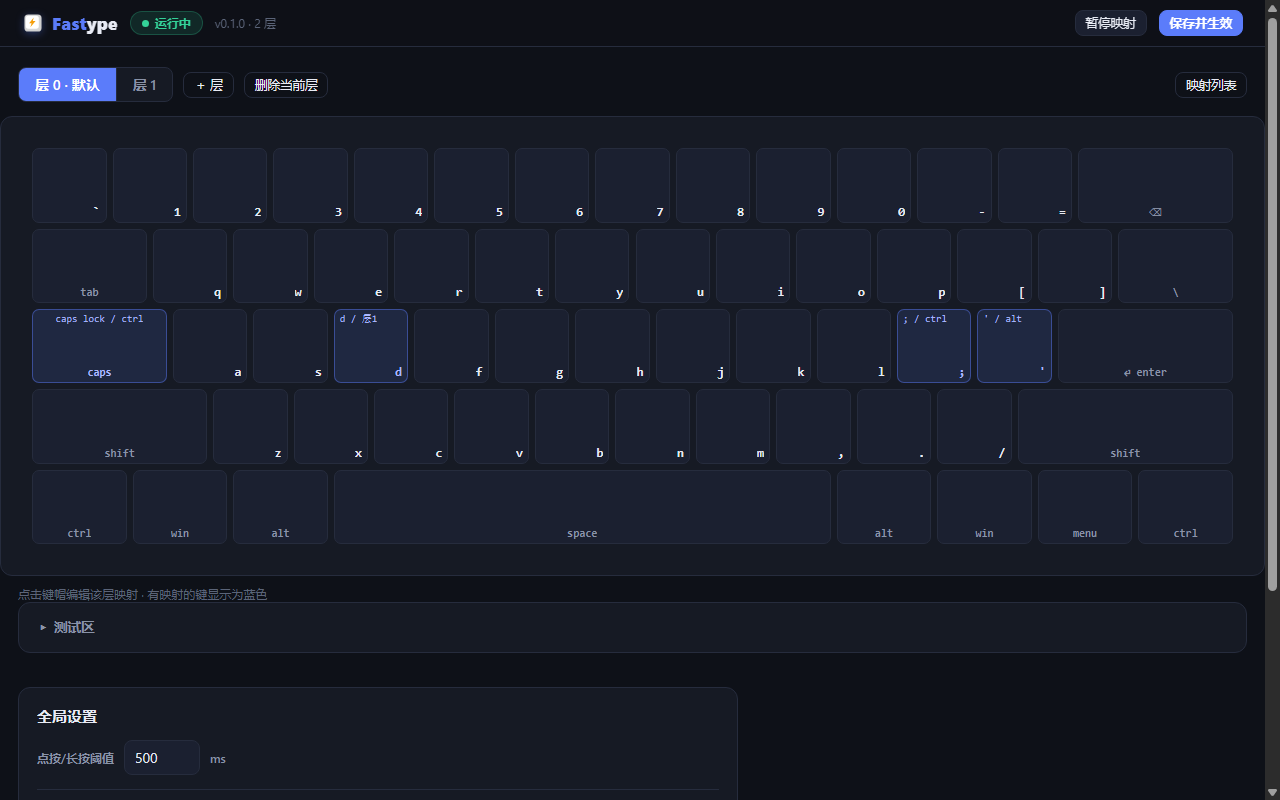
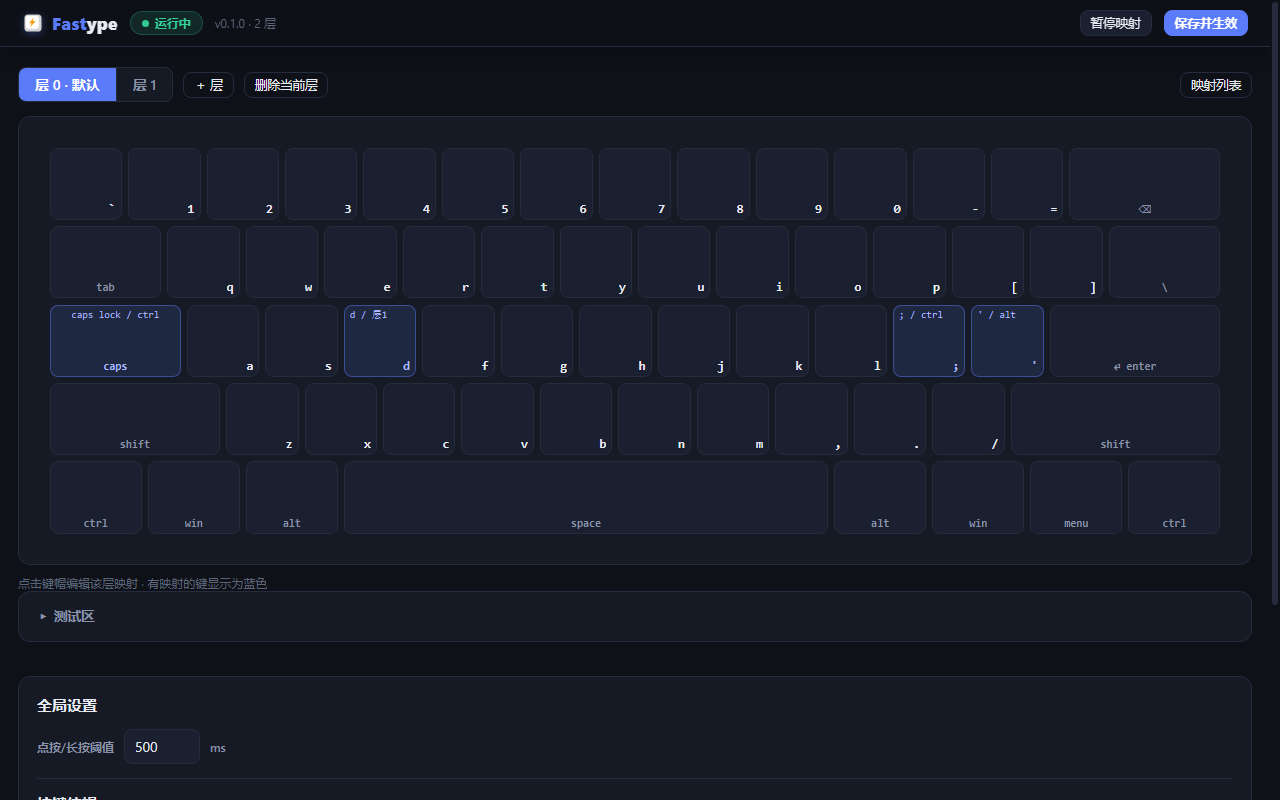
Web UI: 简化单列布局规则（所有卡片同边距同宽，键盘不再贴边）+ 风格统一现代化
- 单列模式回归两条规则：纵向排列 + 编辑面板下移，键盘与全局设置共用布局边距
- 圆角归一（卡片 12px / 控件 8px）、按钮与捕获框 hover 反馈、键盘焦点可见态
- 深色滚动条、状态点呼吸动效、键帽悬浮微抬、文本选中色、顶栏投影
- 截图同步更新（1280x800，像素验证各卡片 x 19..1250 完全对齐）

diff --git a/web/index.html b/web/index.html
@@ -21,12 +21,18 @@
     font-family: "Inter", system-ui, "Segoe UI", "Microsoft YaHei", sans-serif;
     font-size: 14px; -webkit-font-smoothing: antialiased;
   }
+  ::selection { background: rgba(91,124,250,.35); }
+  ::-webkit-scrollbar { width: 10px; height: 10px; }
+  ::-webkit-scrollbar-thumb { background: var(--line); border-radius: 5px; border: 2px solid var(--bg); }
+  ::-webkit-scrollbar-thumb:hover { background: #3b4360; }
+  ::-webkit-scrollbar-track { background: transparent; }
 
   /* ---------- 顶栏 ---------- */
   header {
     position: sticky; top: 0; z-index: 20; display: flex; align-items: center;
     gap: 12px; padding: 10px 22px; background: rgba(14,17,24,.85);
     backdrop-filter: blur(10px); border-bottom: 1px solid var(--line);
+    box-shadow: 0 4px 20px rgba(0,0,0,.25);
   }
   .logo { display: flex; align-items: center; gap: 8px; font-weight: 800; font-size: 17px; letter-spacing: .2px; }
   .logo svg { flex-shrink: 0; filter: drop-shadow(0 2px 4px rgba(91,124,250,.35)); }
@@ -36,16 +42,22 @@
     border-radius: 999px; font-size: 12px; font-weight: 600;
     background: rgba(52,211,153,.12); color: var(--ok); border: 1px solid rgba(52,211,153,.25);
   }
-  .pill::before { content: ""; width: 7px; height: 7px; border-radius: 50%; background: currentColor; }
+  .pill::before { content: ""; width: 7px; height: 7px; border-radius: 50%; background: currentColor; animation: pulse 2.2s ease-in-out infinite; }
+  .pill.paused::before { animation: none; }
   .pill.paused { background: rgba(251,191,36,.1); color: var(--warn); border-color: rgba(251,191,36,.3); }
+  @keyframes pulse { 0%, 100% { opacity: 1; } 50% { opacity: .35; } }
   .ver { color: var(--faint); font-size: 12px; }
   .spacer { flex: 1; }
   button {
-    font: inherit; color: var(--text); background: var(--panel2); cursor: pointer;
+    font: inherit; font-weight: 500; color: var(--text); background: var(--panel2); cursor: pointer;
     border: 1px solid var(--line); border-radius: var(--radius-s); padding: 7px 14px;
     transition: border-color .15s, background .15s, color .15s;
   }
-  button:hover { border-color: var(--accent); }
+  button:hover { border-color: var(--accent); background: #202639; }
+  button:focus-visible, select:focus-visible, input:focus-visible,
+  .capture:focus-visible, summary:focus-visible {
+    outline: 2px solid var(--accent); outline-offset: 2px;
+  }
   button.primary { background: var(--accent); border-color: var(--accent); color: #fff; font-weight: 600; }
   button.primary:hover { filter: brightness(1.1); }
   button.ghost { background: transparent; }
@@ -60,14 +72,10 @@
     background: var(--panel); border: 1px solid var(--line); border-radius: var(--radius);
     padding: 18px; display: flex; flex-direction: column; gap: 14px;
   }
-  /* 中窄宽度改为键盘优先的单列布局：键盘全出血占满整页宽度，其余内容单独留边 */
+  /* 中窄宽度切换为单列布局：所有卡片共用同一宽度与边距，编辑面板移到键盘下方 */
   @media (max-width: 1400px) {
-    .layout { flex-direction: column; max-width: none; align-items: stretch; padding: 0 0 70px; }
-    .toolbar { margin-left: 18px; margin-right: 18px; }
-    .kbd { border-radius: 0; }
-    .kbd-note { margin-left: 18px; margin-right: 18px; }
-    .card { margin-left: 18px; margin-right: 18px; }
-    aside.editor { width: auto; max-width: 720px; margin: 0 18px; position: static; }
+    .layout { flex-direction: column; max-width: none; align-items: stretch; }
+    aside.editor { width: 100%; position: static; }
   }
 
   .card {
@@ -93,13 +101,13 @@
   .key {
     position: absolute; inset: 3px; cursor: pointer; user-select: none;
     font-family: var(--mono);
-    background: var(--panel2); border: 1px solid var(--line); border-radius: 7px;
+    background: var(--panel2); border: 1px solid var(--line); border-radius: var(--radius-s);
     display: flex; flex-direction: column; justify-content: space-between;
     padding: 3px 5px; overflow: hidden;
-    transition: border-color .12s, background .12s, transform .05s;
+    transition: border-color .12s, background .12s, transform .12s, box-shadow .12s;
   }
-  .key:hover { border-color: #3b4360; }
-  .key:active { transform: scale(.97); }
+  .key:hover { border-color: #3b4360; transform: translateY(-1px); box-shadow: 0 3px 10px rgba(0,0,0,.3); }
+  .key:active { transform: scale(.97); box-shadow: none; }
   .key .act {
     font-size: 10px; line-height: 1.25; color: #aab8ff;
     white-space: nowrap; overflow: hidden; text-overflow: ellipsis;
@@ -124,7 +132,7 @@
   td.ops { text-align: right; white-space: nowrap; }
   .key-chip {
     display: inline-block; min-width: 40px; text-align: center; padding: 3px 9px;
-    background: var(--accent-soft); color: #aab8ff; border-radius: 6px;
+    background: var(--accent-soft); color: #aab8ff; border-radius: var(--radius-s);
     font-family: Consolas, monospace; font-size: 13px; font-weight: 600;
   }
   .bind-desc { font-family: Consolas, monospace; font-size: 13px; color: var(--muted); }
@@ -145,13 +153,17 @@
     font: inherit; color: var(--text); background: var(--panel2); cursor: pointer; text-align: center;
     border: 1px dashed #3b4360; border-radius: var(--radius-s); padding: 8px 12px;
     font-family: Consolas, monospace; width: 100%;
+    transition: border-color .15s, background .15s;
   }
+  .capture:hover { border-color: var(--accent); }
   .capture.listening { border-color: var(--accent); background: var(--accent-soft); color: var(--accent); }
   .mods { display: flex; gap: 8px; flex-wrap: wrap; }
   .mods label {
     display: flex; gap: 6px; align-items: center; padding: 5px 11px; cursor: pointer;
     background: var(--panel2); border: 1px solid var(--line); border-radius: 999px; font-size: 13px;
+    transition: border-color .15s;
   }
+  .mods label:hover { border-color: #3b4360; }
   .mods label:has(input:checked) { border-color: var(--accent); color: #aab8ff; background: var(--accent-soft); }
   .mods input { accent-color: var(--accent); }
   .hint { font-size: 12px; color: var(--faint); line-height: 1.5; }
@@ -162,6 +174,7 @@
 
   details.card { padding-top: 14px; }
   details.card summary { cursor: pointer; color: var(--muted); font-weight: 600; font-size: 13.5px; list-style: none; }
+  details.card summary:hover { color: var(--text); }
   details.card summary::before { content: "▸ "; }
   details.card[open] summary::before { content: "▾ "; }
   details.card > *:not(summary) { margin-top: 12px; }
@@ -176,7 +189,7 @@
   #toast {
     position: fixed; left: 50%; bottom: 26px; transform: translateX(-50%) translateY(90px);
     background: #222839; color: #fff; border: 1px solid var(--line); padding: 10px 22px;
-    border-radius: 10px; font-size: 14px; transition: transform .25s; max-width: 80vw; z-index: 99;
+    border-radius: var(--radius); font-size: 14px; transition: transform .25s; max-width: 80vw; z-index: 99;
     box-shadow: 0 10px 30px rgba(0,0,0,.4);
   }
   #toast.show { transform: translateX(-50%) translateY(0); }
